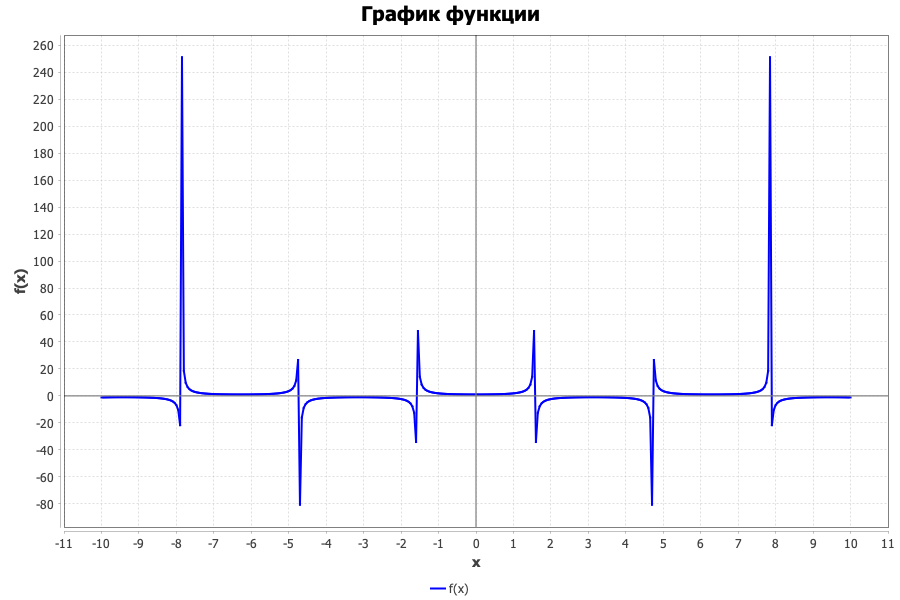
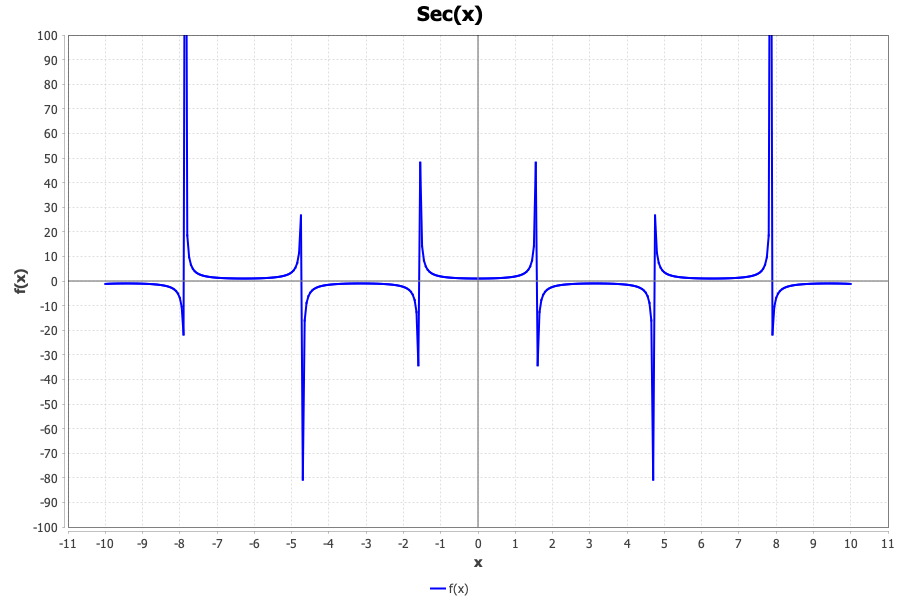
_

diff --git a/src/main/java/ru/sashil/util/ChartGenerator.java b/src/main/java/ru/sashil/util/ChartGenerator.java
@@ -1,16 +1,117 @@
 package ru.sashil.util;
 
+import org.jfree.chart.ChartFactory;
+import org.jfree.chart.ChartPanel;
+import org.jfree.chart.ChartUtils;
+import org.jfree.chart.JFreeChart;
+import org.jfree.chart.axis.ValueAxis;
+import org.jfree.chart.plot.PlotOrientation;
+import org.jfree.chart.plot.ValueMarker;
+import org.jfree.chart.plot.XYPlot;
+import org.jfree.data.xy.XYDataset;
+import org.jfree.data.xy.XYSeries;
+import org.jfree.data.xy.XYSeriesCollection;
+
 import javax.swing.*;
+import java.awt.*;
+import java.io.BufferedReader;
 import java.io.File;
+import java.io.FileReader;
 import java.io.IOException;
+import java.util.ArrayList;
+import java.util.List;
 
 public class ChartGenerator {
 
     private static final String PLOTS_DIR = System.getProperty("user.dir") + File.separator + "plots" + File.separator;
     private static final int PNG_WIDTH = 900;
     private static final int PNG_HEIGHT = 600;
+    private static final int TRIM_MAX_Y = 100;
+    private static final List<JFrame> openFrames = new ArrayList<>();
 
+    // Создание датасета из CSV
+    private static XYDataset createDataset(String csvFilePath) {
+        XYSeries series = new XYSeries("f(x)");
+
+        try (BufferedReader br = new BufferedReader(new FileReader(csvFilePath))) {
+            String line = br.readLine(); // skip header
+            while ((line = br.readLine()) != null) {
+                String[] parts = line.split(";");
+                if (parts.length >= 2) {
+                    try {
+                        double x = Double.parseDouble(parts[0]);
+                        double y = Double.parseDouble(parts[1]);
+                        series.add(x, y);
+                    } catch (NumberFormatException e) {
+                        System.err.println("Skipping malformed line: " + line);
+                    }
+                }
+            }
+        } catch (IOException e) {
+            System.err.println("Error reading CSV: " + e.getMessage());
+        }
+
+        XYSeriesCollection dataset = new XYSeriesCollection();
+        dataset.addSeries(series);
+        return dataset;
+    }
+
+    // Создание графика (общая логика)
+    private static JFreeChart createChart(XYDataset dataset, String title, boolean trim) {
+        JFreeChart chart = ChartFactory.createXYLineChart(
+            title,
+            "x",
+            "f(x)",
+            dataset,
+            PlotOrientation.VERTICAL,
+            true,
+            true,
+            false
+        );
+
+        XYPlot plot = chart.getXYPlot();
+
+        plot.setBackgroundPaint(Color.WHITE);
+        plot.setDomainGridlinePaint(Color.LIGHT_GRAY);
+        plot.setRangeGridlinePaint(Color.LIGHT_GRAY);
+
+        ValueMarker xMarker = new ValueMarker(0);
+        xMarker.setPaint(Color.GRAY);
+        xMarker.setStroke(new BasicStroke(1.5f));
+
+        ValueMarker yMarker = new ValueMarker(0);
+        yMarker.setPaint(Color.GRAY);
+        yMarker.setStroke(new BasicStroke(1.5f));
+
+        plot.addDomainMarker(xMarker);
+        plot.addRangeMarker(yMarker);
+
+        plot.getRenderer().setSeriesPaint(0, Color.BLUE);
+        plot.getRenderer().setSeriesStroke(0, new BasicStroke(2.0f));
+
+        if (trim) {
+            ValueAxis rangeAxis = plot.getRangeAxis();
+            rangeAxis.setRange(-TRIM_MAX_Y, TRIM_MAX_Y);
+            rangeAxis.setAutoRange(false);
+        }
+
+        return chart;
+    }
+
+    // Включить GUI режим
+    private static void enableGuiMode() {
+        System.setProperty("java.awt.headless", "false");
+    }
+
+    // Включить headless режим (для сохранения PNG)
+    private static void enableHeadlessMode() {
+        System.setProperty("java.awt.headless", "true");
+    }
+
+    // Отображение графика в окне (GUI режим)
     public static void displayFunction(String functionName) {
+        enableGuiMode();
+
         String csvPath = PLOTS_DIR + functionName + ".csv";
         File file = new File(csvPath);
 
@@ -23,15 +124,22 @@ public class ChartGenerator {
         boolean needTrim = functionName.equals("Sec") || functionName.equals("Csc") ||
                            functionName.equals("Cot") || functionName.equals("System");
 
-        FunctionGraph graph = new FunctionGraph(
-            "График функции " + functionName + "(x)",
-            functionName + "(x)",
-            csvPath,
-            needTrim
-        );
-        graph.setVisible(true);
+        XYDataset dataset = createDataset(csvPath);
+        JFreeChart chart = createChart(dataset, functionName + "(x)", needTrim);
+
+        JFrame frame = new JFrame("График функции " + functionName + "(x)");
+        ChartPanel chartPanel = new ChartPanel(chart);
+        chartPanel.setPreferredSize(new Dimension(PNG_WIDTH, PNG_HEIGHT));
+        frame.setContentPane(chartPanel);
+        frame.setDefaultCloseOperation(JFrame.DISPOSE_ON_CLOSE);
+        frame.pack();
+        frame.setLocationRelativeTo(null);
+        frame.setVisible(true);
+
+        openFrames.add(frame);
     }
 
+    // Отображение всех графиков
     public static void displayAllFunctions() {
         String[] functions = {"Sin", "Cos", "Sec", "Csc", "Cot", "Ln", "Log3", "Log5", "Log10", "System"};
 
@@ -40,7 +148,34 @@ public class ChartGenerator {
         }
     }
 
+    // Закрыть все открытые окна
+    public static void closeAllFrames() {
+        for (JFrame frame : openFrames) {
+            frame.dispose();
+        }
+        openFrames.clear();
+        System.out.println("Все окна графиков закрыты");
+    }
+
+    // Сохранение графика в PNG (headless режим - без GUI)
+    public static void saveAsPNG(String csvFilePath, String outputPath, int width, int height) throws IOException {
+        enableHeadlessMode();
+
+        String functionName = new File(csvFilePath).getName().replace(".csv", "");
+        boolean needTrim = functionName.equals("Sec") || functionName.equals("Csc") ||
+                           functionName.equals("Cot") || functionName.equals("System");
+
+        XYDataset dataset = createDataset(csvFilePath);
+        JFreeChart chart = createChart(dataset, functionName + "(x)", needTrim);
+
+        // Сохраняем в PNG
+        ChartUtils.saveChartAsPNG(new File(outputPath), chart, width, height);
+    }
+
+    // Сохранение всех графиков
     public static void saveAllAsPNG() throws IOException {
+        enableHeadlessMode();
+
         String[] functions = {"Sin", "Cos", "Sec", "Csc", "Cot", "Ln", "Log3", "Log5", "Log10", "System"};
         String outputDir = PLOTS_DIR + "png" + File.separator;
 
@@ -55,16 +190,7 @@ public class ChartGenerator {
 
             File csvFile = new File(csvPath);
             if (csvFile.exists()) {
-                boolean needTrim = func.equals("Sec") || func.equals("Csc") ||
-                                   func.equals("Cot") || func.equals("System");
-
-                // Для функций с разрывами используем обрезанный график
-                if (needTrim) {
-                    // Создаем отдельный график с обрезанными y
-                    FunctionGraph.saveAsPNG(csvPath, pngPath, PNG_WIDTH, PNG_HEIGHT);
-                } else {
-                    FunctionGraph.saveAsPNG(csvPath, pngPath, PNG_WIDTH, PNG_HEIGHT);
-                }
+                saveAsPNG(csvPath, pngPath, PNG_WIDTH, PNG_HEIGHT);
                 System.out.println("  Сохранён: " + pngPath);
             } else {
                 System.out.println("  Файл не найден: " + csvPath);

diff --git a/src/main/java/ru/sashil/Main.java b/src/main/java/ru/sashil/Main.java
@@ -20,41 +20,60 @@ public class Main {
     public static void main(String[] args) {
         Scanner scanner = new Scanner(System.in);
 
-        System.out.println("Лабораторная работа #2");
-        System.out.println("1 - Вычислить значение функции в точке");
-        System.out.println("2 - Экспортировать значения системы функций в CSV");
-        System.out.println("3 - Экспортировать все функции в CSV (для построения графиков)");
-        System.out.println("4 - Показать график конкретной функции");
-        System.out.println("5 - Показать графики всех функций");
-        System.out.println("6 - Сохранить все графики в PNG");
-        System.out.print("Выберите действие: ");
+        while (true) {
+            System.out.println("\n========================================");
+            System.out.println("Лабораторная работа #2");
+            System.out.println("1 - Вычислить значение функции в точке");
+            System.out.println("2 - Экспортировать значения системы функций в CSV");
+            System.out.println("3 - Экспортировать все функции в CSV (для построения графиков)");
+            System.out.println("4 - Показать график конкретной функции");
+            System.out.println("5 - Показать графики всех функций");
+            System.out.println("6 - Сохранить все графики в PNG");
+            System.out.println("7 - Закрыть все графики");
+            System.out.println("0 - Выход");
+            System.out.print("Выберите действие: ");
 
-        int choice = scanner.nextInt();
+            int choice;
+            try {
+                choice = scanner.nextInt();
+            } catch (java.util.InputMismatchException e) {
+                System.out.println("Ошибка: введите число");
+                scanner.next();
+                continue;
+            }
 
-        switch (choice) {
-            case 1:
-                runSingleCalculation(scanner);
-                break;
-            case 2:
-                exportSystemFunction(scanner);
-                break;
-            case 3:
-                exportAllFunctions();
-                break;
-            case 4:
-                showSingleGraph(scanner);
-                break;
-            case 5:
-                showAllGraphs();
-                break;
-            case 6:
-                saveAllGraphsToPNG();
-                break;
-            default:
-                System.out.println("Неверный выбор");
+            switch (choice) {
+                case 1:
+                    runSingleCalculation(scanner);
+                    break;
+                case 2:
+                    exportSystemFunction(scanner);
+                    break;
+                case 3:
+                    exportAllFunctions();
+                    break;
+                case 4:
+                    showSingleGraph(scanner);
+                    break;
+                case 5:
+                    showAllGraphs();
+                    break;
+                case 6:
+                    saveAllGraphsToPNG();
+                    break;
+                case 7:
+                    ChartGenerator.closeAllFrames();
+                    break;
+                case 0:
+                    System.out.println("До свидания!");
+                    scanner.close();
+                    ChartGenerator.closeAllFrames();
+                    System.exit(0);
+                    break;
+                default:
+                    System.out.println("Неверный выбор");
+            }
         }
-
-        scanner.close();
     }
 
     private static void runSingleCalculation(Scanner scanner) {
@@ -108,17 +127,16 @@ public class Main {
 
         for (int i = 0; i < functions.length; i++) {
             try {
-                final int idx = i;
                 CSVWriter writer = new CSVWriter(functions[i], OUTPUT_DIR);
                 writer.export(start, end, STEP, PRECISION);
-                System.out.println("  " + names[idx] + " -> " + writer.getFilePath());
+                System.out.println("  " + names[i] + " -> " + writer.getFilePath());
             } catch (Exception e) {
                 System.out.println("  Ошибка при экспорте: " + e.getMessage());
             }
         }
 
         System.out.println("\n✅ Все файлы сохранены в директории: " + OUTPUT_DIR);
-        System.out.println("Для построения графиков используйте пункты 4, 5 или 6");
+        System.out.println("Для построения графиков используйте пункты 4, 5, 6 или 7");
     }
 
     private static void showSingleGraph(Scanner scanner) {
@@ -131,7 +149,6 @@ public class Main {
     private static void showAllGraphs() {
         System.out.println("Открытие графиков всех функций...");
         ChartGenerator.displayAllFunctions();
-        System.out.println("Графики открыты в отдельных окнах");
     }
 
     private static void saveAllGraphsToPNG() {
